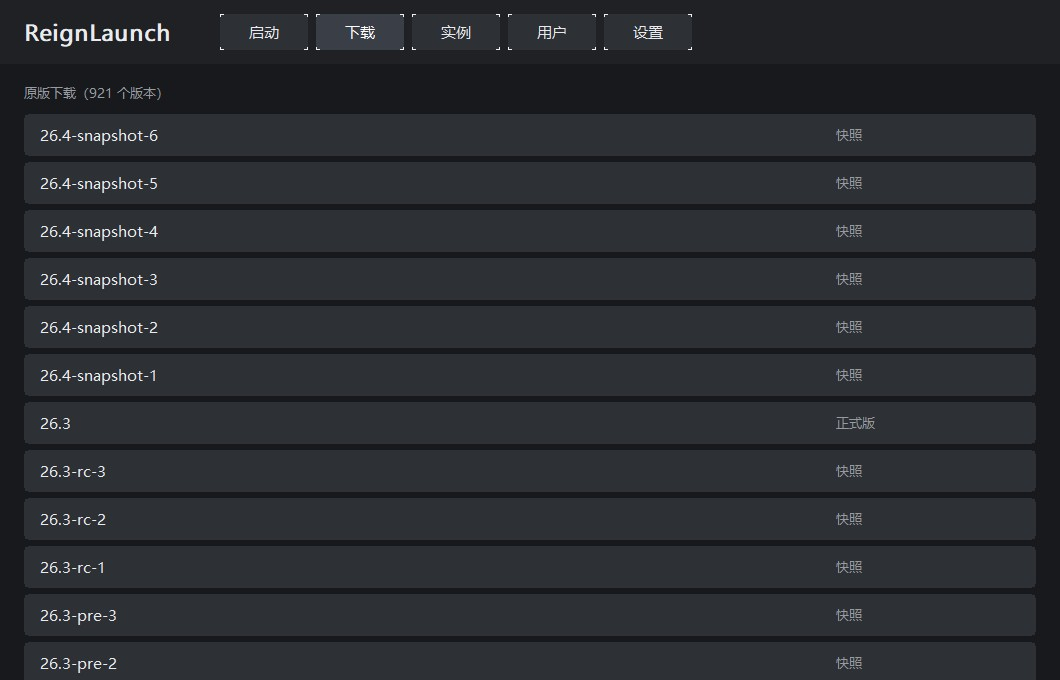
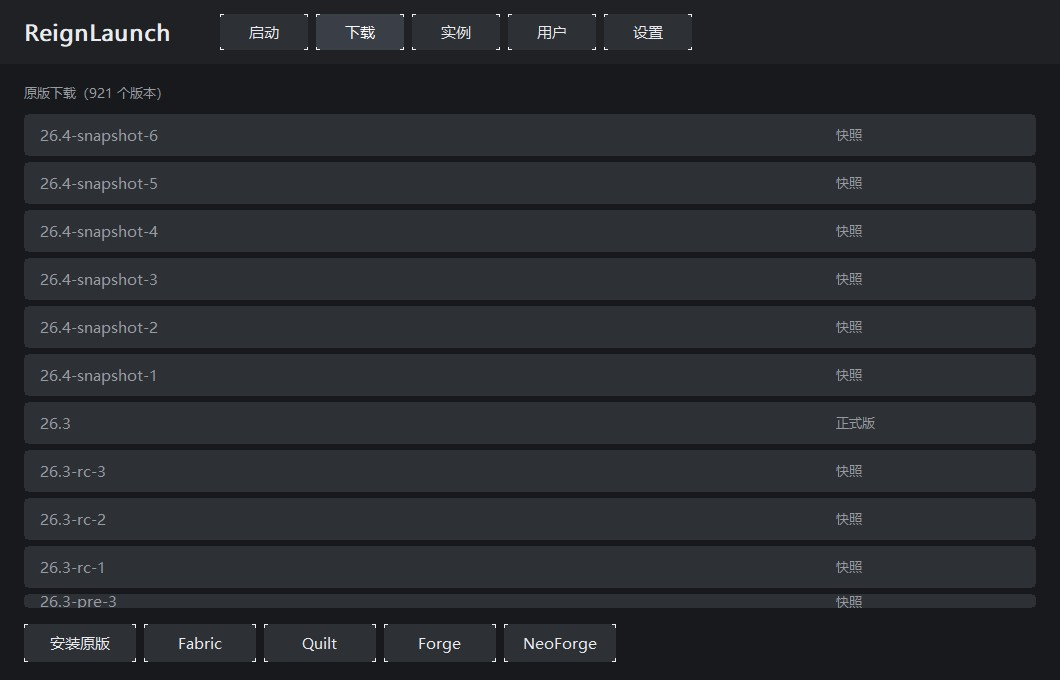
feat: mod loader install (Fabric/Quilt meta, Forge/NeoForge installer)

diff --git a/src/ReignLaunch.cpp b/src/ReignLaunch.cpp
@@ -126,6 +126,7 @@ static HWND hLblDir, hEdDir, hBtnAutoDir, hBtnBrowseDir, hBtnDirDrop;
 static HWND hLblJava, hEdJava, hBtnAutoJava, hBtnBrowseJava, hBtnJavaDrop;
 static HWND hLblMem, hEdMem, hEdName, hLblName, hBtnSave, hBtnIso, hEdThreads, hEdJvm, hEdGame, hBtnSource, hBtnFull;
 static HWND hBtnUpdate;
+static HWND hBtnDlVanilla, hBtnDlFabric, hBtnDlQuilt, hBtnDlForge, hBtnDlNeo;
 
 struct McVer { std::string id, type, url; };
 static std::vector<McVer> g_mcVers;
@@ -1478,6 +1479,11 @@ static std::string        g_loginErr;
 #define ID_BTN_SOURCE    1363
 #define ID_BTN_FULL      1364
 #define ID_BTN_UPDATE    1365
+#define ID_DL_VANILLA    1370
+#define ID_DL_FABRIC     1371
+#define ID_DL_QUILT      1372
+#define ID_DL_FORGE      1373
+#define ID_DL_NEO        1374
 #define ID_BTN_SAVE     1320
 #define ID_BTN_ISO      1321
 
@@ -1645,6 +1651,17 @@ static void LayoutControls() {
         MoveWindow(hBtnSource, x + Scale(110), y + rowH * 6 + Scale(4), Scale(200), Scale(36), TRUE);
         MoveWindow(hBtnFull,   x + Scale(322), y + rowH * 6 + Scale(4), Scale(230), Scale(36), TRUE);
         MoveWindow(hBtnUpdate, g_ly.main.left + Scale(40), g_ly.content.bottom - Scale(70), Scale(140), Scale(38), TRUE);
+
+        {
+            int by = g_ly.content.bottom - Scale(56);
+            int bw = Scale(112), gap = Scale(8);
+            int bx = g_ly.content.left + Scale(24);
+            MoveWindow(hBtnDlVanilla, bx, by, bw, Scale(38), TRUE); bx += bw + gap;
+            MoveWindow(hBtnDlFabric,  bx, by, bw, Scale(38), TRUE); bx += bw + gap;
+            MoveWindow(hBtnDlQuilt,   bx, by, bw, Scale(38), TRUE); bx += bw + gap;
+            MoveWindow(hBtnDlForge,   bx, by, bw, Scale(38), TRUE); bx += bw + gap;
+            MoveWindow(hBtnDlNeo,     bx, by, bw, Scale(38), TRUE);
+        }
     }
 }
 
@@ -1663,6 +1680,14 @@ static void ShowPage(Page p) {
     ShowWindow(hBtnTabSettings, SW_SHOW);
     ShowWindow(hBtnTabInst, SW_SHOW);
     ShowWindow(hBtnTabDl, SW_SHOW);
+    {
+        int showDl = (g_page == PAGE_DOWNLOAD) ? SW_SHOW : SW_HIDE;
+        ShowWindow(hBtnDlVanilla, showDl);
+        ShowWindow(hBtnDlFabric,  showDl);
+        ShowWindow(hBtnDlQuilt,   showDl);
+        ShowWindow(hBtnDlForge,   showDl);
+        ShowWindow(hBtnDlNeo,     showDl);
+    }
 
 
 
@@ -2144,6 +2169,142 @@ static void InstallVersionThread(std::string id, std::string url) {
         PostMessageW(g_hwnd, WM_APP_DONE, 0, 0);
     }
 }
+// ---------------- 模组加载器安装 ----------------
+static int g_dlSel = -1;      // 下载页选中的版本下标
+
+static std::string HttpGetString(const std::string& url, std::string& err) {
+    std::vector<unsigned char> data;
+    if (!HttpRequest(url, "GET", "", "", data, err)) return std::string();
+    return std::string(data.begin(), data.end());
+}
+
+// Fabric / Quilt：拿 loader 列表 -> profile json -> 落到 versions/<id>
+static void InstallMetaLoaderThread(std::string mc, bool quilt) {
+    g_status = L"正在获取 " + std::wstring(quilt ? L"Quilt" : L"Fabric") + L" 加载器列表…";
+
+    std::string url = quilt
+        ? "https://meta.quiltmc.org/v3/versions/loader/" + mc
+        : "https://bmclapi2.bangbang93.com/fabric-meta/v2/versions/loader/" + mc;
+
+    std::string err;
+    std::string body = HttpGetString(url, err);
+    if (body.empty()) { g_status = L"加载器列表获取失败：" + U8ToW(err); if (g_hwnd) PostMessageW(g_hwnd, WM_APP_DONE, 0, 0); return; }
+
+    json j = json::parse(body, nullptr, false);
+    if (!j.is_array() || j.empty()) { g_status = L"该版本没有可用的加载器"; if (g_hwnd) PostMessageW(g_hwnd, WM_APP_DONE, 0, 0); return; }
+
+    std::string lv = j[0]["loader"].value("version", std::string());
+    if (lv.empty()) { g_status = L"解析加载器版本失败"; if (g_hwnd) PostMessageW(g_hwnd, WM_APP_DONE, 0, 0); return; }
+
+    g_status = L"正在获取 profile（" + U8ToW(lv) + L"）…";
+    std::string profUrl = quilt
+        ? "https://meta.quiltmc.org/v3/versions/loader/" + mc + "/" + lv + "/profile/json"
+        : "https://bmclapi2.bangbang93.com/fabric-meta/v2/versions/loader/" + mc + "/" + lv + "/profile/json";
+    std::string prof = HttpGetString(profUrl, err);
+    if (prof.empty()) { g_status = L"profile 获取失败：" + U8ToW(err); if (g_hwnd) PostMessageW(g_hwnd, WM_APP_DONE, 0, 0); return; }
+
+    json pj = json::parse(prof, nullptr, false);
+    std::string vid = pj.value("id", std::string());
+    if (vid.empty()) { g_status = L"profile 内容异常"; if (g_hwnd) PostMessageW(g_hwnd, WM_APP_DONE, 0, 0); return; }
+
+    fs::path dir = fs::u8path(g_cfg.gameDir) / L"versions" / fs::u8path(vid);
+    std::error_code ec;
+    fs::create_directories(dir, ec);
+    std::ofstream f{ dir / fs::u8path(vid + ".json"), std::ios::binary | std::ios::trunc };
+    f << prof;
+    f.close();
+
+    g_status = L"正在补全加载器依赖…";
+    DownloadStats st;
+    DownloadMissing(vid, st);
+    g_progState = 0;
+    if (g_hwnd) {
+        ScanVersions();
+        g_status = L"安装完成：" + U8ToW(vid) + L"（下载 " + std::to_wstring(st.downloaded) + L" 个文件）";
+        PostMessageW(g_hwnd, WM_APP_DONE, 0, 0);
+    }
+}
+
+// Forge / NeoForge：下载 installer 并执行 --installClient
+static void InstallInstallerThread(std::string mc, bool neo) {
+    std::string listUrl = neo
+        ? "https://bmclapi2.bangbang93.com/neoforge/list/" + mc
+        : "https://bmclapi2.bangbang93.com/forge/minecraft/" + mc;
+    g_status = L"正在获取 " + std::wstring(neo ? L"NeoForge" : L"Forge") + L" 版本列表…";
+
+    std::string err;
+    std::string body = HttpGetString(listUrl, err);
+    if (body.empty()) { g_status = L"版本列表获取失败：" + U8ToW(err); if (g_hwnd) PostMessageW(g_hwnd, WM_APP_DONE, 0, 0); return; }
+
+    json j = json::parse(body, nullptr, false);
+    if (!j.is_array() || j.empty()) { g_status = L"该版本没有可用的加载器"; if (g_hwnd) PostMessageW(g_hwnd, WM_APP_DONE, 0, 0); return; }
+
+    std::string ver, dlUrl;
+    if (!neo) {
+        // [{"version":"47.4.23","mcversion":"1.20.1",...}]
+        for (auto& v : j) {
+            std::string vv = v.value("version", std::string());
+            std::string branch = v.value("branch", std::string());
+            if (vv.empty()) continue;
+            if (ver.empty() || branch == "recommended") ver = vv;
+        }
+        if (ver.empty()) { g_status = L"未找到 Forge 版本"; if (g_hwnd) PostMessageW(g_hwnd, WM_APP_DONE, 0, 0); return; }
+        std::string full = mc + "-" + ver;
+        dlUrl = "https://bmclapi2.bangbang93.com/maven/net/minecraftforge/forge/" + full +
+                "/forge-" + full + "-installer.jar";
+    } else {
+        for (auto& v : j) {
+            std::string vv = v.value("version", std::string());
+            if (!vv.empty()) { ver = vv; break; }
+        }
+        if (ver.empty()) { g_status = L"未找到 NeoForge 版本"; if (g_hwnd) PostMessageW(g_hwnd, WM_APP_DONE, 0, 0); return; }
+        dlUrl = "https://bmclapi2.bangbang93.com/maven/net/neoforged/neoforge/" + ver +
+                "/neoforge-" + ver + "-installer.jar";
+    }
+
+    wchar_t tmp[MAX_PATH] = { 0 };
+    GetTempPathW(MAX_PATH, tmp);
+    fs::path jar = fs::path(tmp) / L"reignlaunch_installer.jar";
+
+    g_status = L"正在下载安装器 " + U8ToW(ver) + L"…";
+    std::string e2;
+    if (!DownloadFile(dlUrl, jar, e2)) {
+        g_status = L"安装器下载失败：" + U8ToW(e2);
+        if (g_hwnd) PostMessageW(g_hwnd, WM_APP_DONE, 0, 0);
+        return;
+    }
+
+    g_status = L"正在运行安装器（可能需要几分钟）…";
+    std::string javaExe = EffectiveJavaExe();
+    std::wstring cmd = L"\"" + U8ToW(javaExe) + L"\" -jar \"" + jar.wstring() + L"\" --installClient \"" +
+                       U8ToW(g_cfg.gameDir) + L"\"";
+    std::vector<wchar_t> cmdBuf(cmd.begin(), cmd.end());
+    cmdBuf.push_back(0);
+
+    STARTUPINFOW si{ sizeof(si) };
+    si.dwFlags = STARTF_USESHOWWINDOW;
+    si.wShowWindow = SW_HIDE;
+    PROCESS_INFORMATION pi{};
+    if (!CreateProcessW(nullptr, cmdBuf.data(), nullptr, nullptr, FALSE, CREATE_NO_WINDOW,
+                        nullptr, U8ToW(g_cfg.gameDir).c_str(), &si, &pi)) {
+        g_status = L"安装器启动失败（错误码 " + std::to_wstring(GetLastError()) + L"）";
+        if (g_hwnd) PostMessageW(g_hwnd, WM_APP_DONE, 0, 0);
+        return;
+    }
+    WaitForSingleObject(pi.hProcess, 600000);
+    DWORD code = 0;
+    GetExitCodeProcess(pi.hProcess, &code);
+    CloseHandle(pi.hThread);
+    CloseHandle(pi.hProcess);
+    { std::error_code ecr; fs::remove(jar, ecr); }
+
+    if (g_hwnd) {
+        ScanVersions();
+        g_status = (code == 0) ? (L"安装完成：" + U8ToW(ver))
+                               : (L"安装器退出码 " + std::to_wstring(code) + L"，请查看日志");
+        PostMessageW(g_hwnd, WM_APP_DONE, 0, 0);
+    }
+}
 // ============================ 自动更新 ============================
 #define APP_TAG L"v1.1.0-beta3.5"
 
@@ -2541,7 +2702,9 @@ static void PaintMain(HDC dc, int w, int h) {
         int y = top + Scale(34) - g_listScroll;
         for (size_t i = 0; i < g_versions.size(); ++i) {
             RECT item = { x, y, g_ly.content.right - Scale(24), y + itemH - Scale(8) };
-            if (item.bottom > top + Scale(34) && item.top < g_ly.content.bottom) {
+                int listBottom = g_ly.content.bottom - Scale(72);
+                if (item.bottom > listBottom) item.bottom = listBottom;
+                if (item.bottom > top + Scale(34) && item.top < listBottom) {
                 bool sel = ((int)i == g_selVersion);
                 FillRoundRect(dc, item, 8, sel ? C_CARD_SEL : C_CARD);
                 RECT tx = item; tx.left += Scale(16); tx.right -= Scale(12);
@@ -2581,10 +2744,19 @@ static void PaintMain(HDC dc, int w, int h) {
             int y = top + Scale(34) - g_listScroll;
             for (size_t i = 0; i < g_mcVers.size(); ++i) {
                 RECT item = { x, y, g_ly.content.right - Scale(24), y + itemH - Scale(6) };
-                if (item.bottom > top + Scale(34) && item.top < g_ly.content.bottom) {
-                    FillRoundRect(dc, item, 8, C_CARD);
+                int listBottom = g_ly.content.bottom - Scale(72);
+                if (item.bottom > listBottom) item.bottom = listBottom;
+                if (item.bottom > top + Scale(34) && item.top < listBottom) {
+                    bool sel = ((int)i == g_dlSel);
+                    FillRoundRect(dc, item, 8, sel ? C_CARD_SEL : C_CARD);
                     RECT tx = item; tx.left += Scale(16);
-                    DrawTextIn(dc, U8ToW(g_mcVers[i].id), tx, C_TEXT, g_fUi);
+                    DrawTextIn(dc, U8ToW(g_mcVers[i].id), tx, sel ? C_TEXT : C_DIM, g_fUi);
+                    if (sel) {
+                        RECT bar = { item.left, item.top + Scale(8), item.left + Scale(3), item.bottom - Scale(8) };
+                        HBRUSH b = CreateSolidBrush(C_ACCENT2);
+                        FillRect(dc, &bar, b);
+                        DeleteObject(b);
+                    }
 
                     std::wstring ty = (g_mcVers[i].type == "release") ? L"正式版"
                                     : (g_mcVers[i].type == "snapshot") ? L"快照"
@@ -2859,6 +3031,11 @@ static LRESULT CALLBACK MainProc(HWND hwnd, UINT msg, WPARAM wp, LPARAM lp) {
         hBtnTabAbout    = MakeBtn(hwnd, L"关于", ID_TAB_ABOUT);
         hBtnTabInst     = MakeBtn(hwnd, L"实例", ID_TAB_INST);
         hBtnTabDl       = MakeBtn(hwnd, L"下载", ID_TAB_DL);
+        hBtnDlVanilla = MakeBtn(hwnd, L"安装原版", ID_DL_VANILLA);
+        hBtnDlFabric  = MakeBtn(hwnd, L"Fabric",   ID_DL_FABRIC);
+        hBtnDlQuilt   = MakeBtn(hwnd, L"Quilt",    ID_DL_QUILT);
+        hBtnDlForge   = MakeBtn(hwnd, L"Forge",    ID_DL_FORGE);
+        hBtnDlNeo     = MakeBtn(hwnd, L"NeoForge", ID_DL_NEO);
 
         hBtnLaunch  = MakeBtn(hwnd, L"启动游戏", ID_BTN_LAUNCH);
         hBtnRefresh = MakeBtn(hwnd, L"刷新版本", ID_BTN_REFRESH);
@@ -3027,13 +3204,9 @@ static LRESULT CALLBACK MainProc(HWND hwnd, UINT msg, WPARAM wp, LPARAM lp) {
                     if (idx >= 0 && idx < (int)g_mcVers.size()) {
                         std::string id = g_mcVers[idx].id;
                         std::string url = g_mcVers[idx].url;
-                        std::wstring cmsg = L"确定要下载并安装 " + U8ToW(id) +
-                            L" 吗？\n\n将下载版本 JSON、客户端、依赖库与资源文件，可能需要较长时间。";
-                        if (MessageBoxW(hwnd, cmsg.c_str(), L"下载原版", MB_YESNO | MB_ICONQUESTION) != IDYES)
-                            return 0;
-                        g_status = L"开始安装：" + U8ToW(id);
+                        g_dlSel = idx;
+                        g_status = L"已选择：" + U8ToW(id) + L"  → 点下方的按钮安装";
                         InvalidateRect(hwnd, nullptr, TRUE);
-                        std::thread(InstallVersionThread, id, url).detach();
                     }
                 }
             }
@@ -3170,7 +3343,44 @@ static LRESULT CALLBACK MainProc(HWND hwnd, UINT msg, WPARAM wp, LPARAM lp) {
             }
             break;
 
-        case ID_BTN_UPDATE:
+        case ID_DL_VANILLA: case ID_DL_FABRIC: case ID_DL_QUILT:
+    case ID_DL_FORGE:   case ID_DL_NEO: {
+        if (g_dlSel < 0 || g_dlSel >= (int)g_mcVers.size()) {
+            MessageBoxW(hwnd, L"请先在列表里选一个游戏版本。", L"下载", MB_OK | MB_ICONINFORMATION);
+            break;
+        }
+        std::string mc = g_mcVers[g_dlSel].id;
+        std::string url = g_mcVers[g_dlSel].url;
+        int id = (int)(wp & 0xFFFF);
+        if (id == ID_DL_VANILLA) (void)url;
+
+        if (id == ID_DL_VANILLA) {
+            std::wstring cmsg = L"确定安装原版 " + U8ToW(mc) + L" 吗？";
+            if (MessageBoxW(hwnd, cmsg.c_str(), L"下载原版", MB_YESNO | MB_ICONQUESTION) != IDYES) break;
+            g_status = L"开始安装：" + U8ToW(mc);
+            std::thread(InstallVersionThread, mc, url).detach();
+        } else if (id == ID_DL_FABRIC) {
+            std::wstring cmsg = L"为 " + U8ToW(mc) + L" 安装 Fabric？\n会自动选最新加载器。";
+            if (MessageBoxW(hwnd, cmsg.c_str(), L"安装 Fabric", MB_YESNO | MB_ICONQUESTION) != IDYES) break;
+            std::thread(InstallMetaLoaderThread, mc, false).detach();
+        } else if (id == ID_DL_QUILT) {
+            std::wstring cmsg = L"为 " + U8ToW(mc) + L" 安装 Quilt？\n会自动选最新加载器。";
+            if (MessageBoxW(hwnd, cmsg.c_str(), L"安装 Quilt", MB_YESNO | MB_ICONQUESTION) != IDYES) break;
+            std::thread(InstallMetaLoaderThread, mc, true).detach();
+        } else if (id == ID_DL_FORGE) {
+            std::wstring cmsg = L"为 " + U8ToW(mc) + L" 安装 Forge？\n会下载并运行官方安装器，可能需要几分钟。";
+            if (MessageBoxW(hwnd, cmsg.c_str(), L"安装 Forge", MB_YESNO | MB_ICONQUESTION) != IDYES) break;
+            std::thread(InstallInstallerThread, mc, false).detach();
+        } else {
+            std::wstring cmsg = L"为 " + U8ToW(mc) + L" 安装 NeoForge？\n会下载并运行官方安装器，可能需要几分钟。";
+            if (MessageBoxW(hwnd, cmsg.c_str(), L"安装 NeoForge", MB_YESNO | MB_ICONQUESTION) != IDYES) break;
+            std::thread(InstallInstallerThread, mc, true).detach();
+        }
+        InvalidateRect(hwnd, nullptr, TRUE);
+        break;
+    }
+
+    case ID_BTN_UPDATE:
         g_status = L"正在检查更新…";
         std::thread(UpdateThread, true).detach();
         InvalidateRect(hwnd, nullptr, TRUE);
